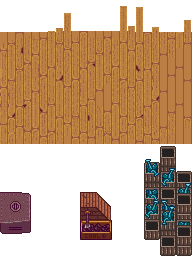
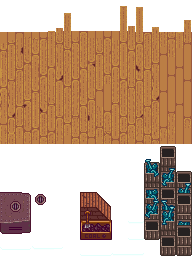
Added exclamation mark when engine is empty

diff --git a/FishingTrawler/Framework/GameLocations/TrawlerHull.cs b/FishingTrawler/Framework/GameLocations/TrawlerHull.cs
@@ -8,6 +8,7 @@ using System;
 using System.Collections.Generic;
 using System.IO;
 using System.Linq;
+using System.Reflection.Metadata.Ecma335;
 using xTile.Dimensions;
 using xTile.Layers;
 using xTile.Tiles;
@@ -236,17 +237,24 @@ namespace FishingTrawler.GameLocations
         public void AnimateEngine()
         {
             // Add engine shake
-            if (GetFuelLevel() > 0 && base.temporarySprites.Any(s => s.initialPosition == new Vector2(1.45f, 5.45f)) is false)
+            if (GetFuelLevel() > 0)
             {
-                base.temporarySprites.Add(new TemporaryAnimatedSprite(Path.Combine(FishingTrawler.assetManager.assetFolderPath, "Maps", "TrawlerHull.png"), new Microsoft.Xna.Framework.Rectangle(32, 192, 16, 16), 7000 - Game1.gameTimeInterval, 1, 1, new Vector2(1.45f, 5.45f) * 64f, flicker: false, flipped: false, 0.5188f, 0f, Color.White, 4f, 0f, 0f, 0f)
+                if (base.temporarySprites.Any(s => s.initialPosition == new Vector2(1.45f, 5.45f)) is false)
                 {
-                    shakeIntensity = 1f
-                });
-                AmbientLocationSounds.addSound(new Vector2(1.5f, 5.5f), AmbientLocationSounds.sound_engine);
+                    base.temporarySprites.Add(new TemporaryAnimatedSprite(Path.Combine(FishingTrawler.assetManager.assetFolderPath, "Maps", "TrawlerHull.png"), new Microsoft.Xna.Framework.Rectangle(32, 192, 16, 16), 7000 - Game1.gameTimeInterval, 1, 1, new Vector2(1.45f, 5.45f) * 64f, flicker: false, flipped: false, 0.5188f, 0f, Color.White, 4f, 0f, 0f, 0f)
+                    {
+                        shakeIntensity = 1f
+                    });
+
+                    AmbientLocationSounds.addSound(new Vector2(1.5f, 5.5f), AmbientLocationSounds.sound_engine);
+                }
+                setMapTileIndex(2, 5, -1, "AlwaysFront", TRAWLER_TILESHEET_INDEX);
             }
             else
             {
                 AmbientLocationSounds.removeSound(new Vector2(1.5f, 5.5f));
+
+                setAnimatedMapTile(2, 5, new int[] { 24, 25, 26, 27, 28 }, 90, "AlwaysFront", null, TRAWLER_TILESHEET_INDEX);
             }
         }
 
